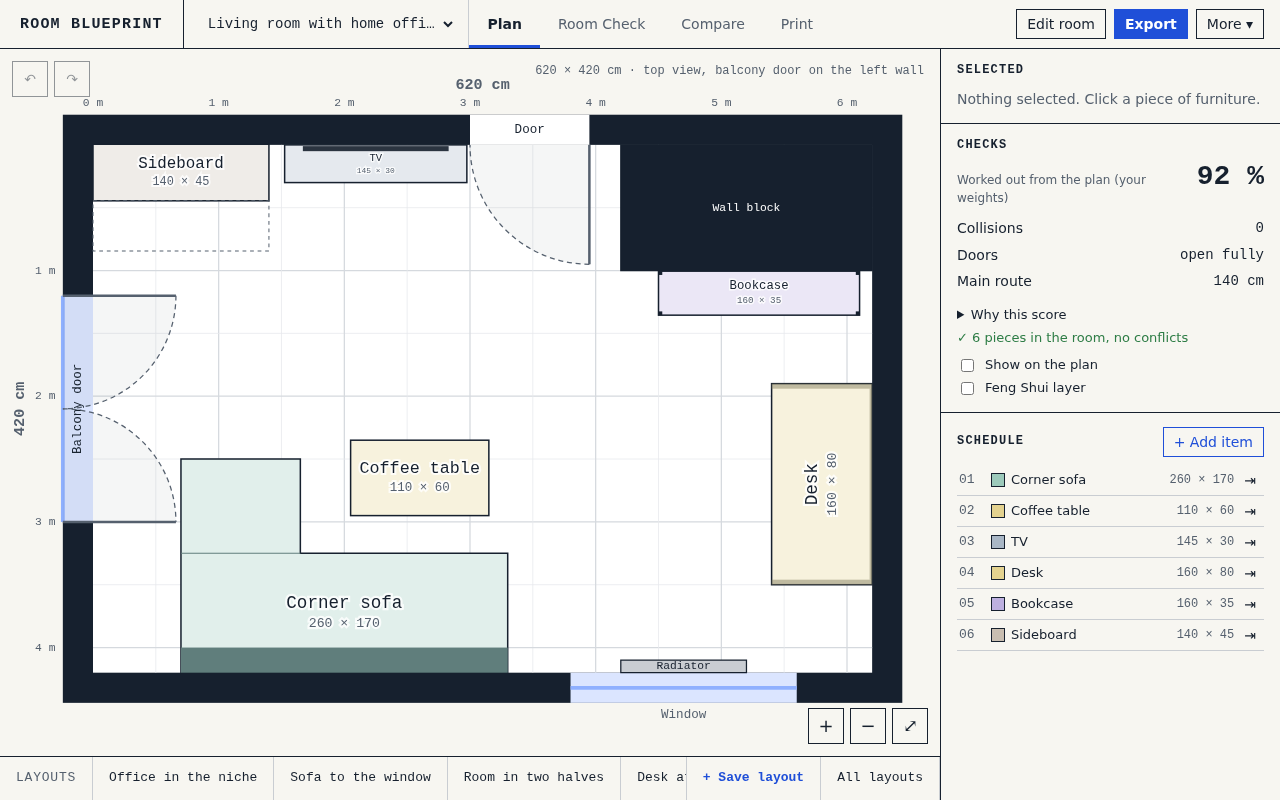
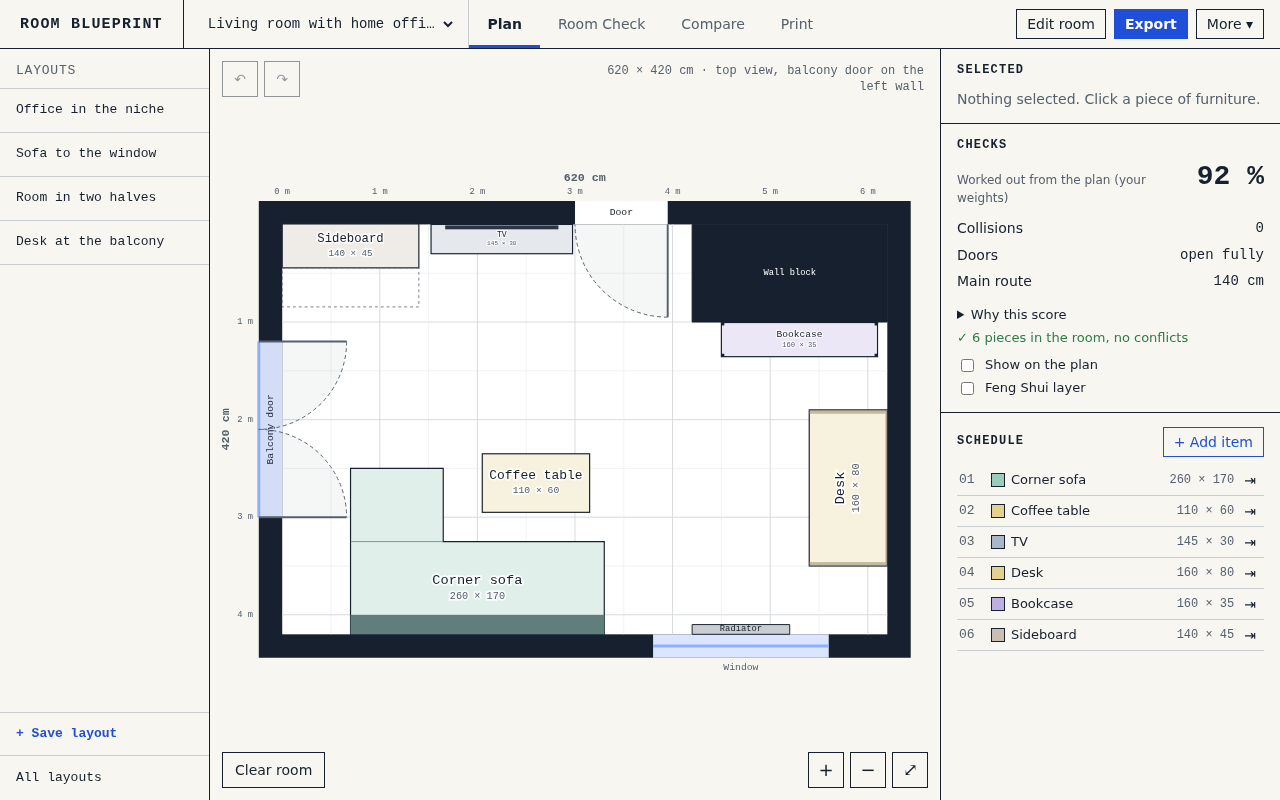
Layouts as a column left of the plan instead of the bottom bar
Claude-Session: https://claude.ai/code/session_01MsFzypCZdonm5r5cJatRb2

diff --git a/css/planner.css b/css/planner.css
@@ -16,14 +16,17 @@ main { flex: 1; display: flex; flex-direction: column; min-width: 0; }
 .canvas-foot button { background: var(--bg); min-height: 36px; padding: 0 12px; }
 #zoom button { font-size: 18px; padding: 0; }
 
-#layoutBar { display: flex; align-items: stretch; flex: none; border-top: 1.5px solid var(--text); font: 13px/1.3 var(--font-mono); min-height: 44px; }
-#layoutBar .bar-title { display: flex; align-items: center; padding: 0 16px; color: var(--muted); border-right: 1px solid var(--line);
-  text-transform: uppercase; letter-spacing: .06em; }
-#layoutChips { display: flex; flex: 1; min-width: 0; overflow-x: auto; }
-#layoutBar button { border: 0; border-right: 1px solid var(--line); padding: 8px 16px; white-space: nowrap; max-width: 26ch; overflow: hidden; text-overflow: ellipsis; flex: none; }
+/* Layouts: a column left of the plan */
+#layoutBar { display: flex; flex-direction: column; flex: none; width: 210px; border-right: 1.5px solid var(--text); font: 13px/1.3 var(--font-mono); min-height: 0; }
+#layoutBar .bar-title { padding: 14px 16px 8px; color: var(--muted); text-transform: uppercase; letter-spacing: .06em; border-bottom: 1px solid var(--line); }
+#layoutChips { display: flex; flex-direction: column; flex: 1; min-height: 0; overflow-y: auto; }
+#layoutBar button { border: 0; border-bottom: 1px solid var(--line); border-radius: 0; padding: 10px 16px; min-height: 44px; text-align: left;
+  white-space: normal; overflow-wrap: anywhere; display: -webkit-box; -webkit-line-clamp: 3; -webkit-box-orient: vertical; overflow: hidden; flex: none; }
 #layoutChips button[aria-pressed=true] { background: var(--text); color: var(--bg); font-weight: 600; }
-#layoutChips .empty { display: flex; align-items: center; padding: 0 16px; color: var(--muted); }
-#layoutBar #newLayout { color: var(--accent); font-weight: 600; border-left: 1px solid var(--line); }
+#layoutChips .empty { padding: 10px 16px; color: var(--muted); }
+#layoutBar #newLayout { color: var(--accent); font-weight: 600; border-top: 1px solid var(--line); }
+#layoutBar #allLayouts { border-bottom: 0; }
+@media (max-width: 1120px) { #layoutBar { width: 170px; } #layoutBar button, #layoutBar .bar-title { padding-left: 12px; padding-right: 12px; } }
 
 /* Only on a phone */
 #selBar, #bottomNav { display: none; }

diff --git a/index.html b/index.html
@@ -37,6 +37,12 @@
 <div id="damagedNotice" class="app-notice" role="alert" hidden></div>
 
 <div id="app">
+  <div id="layoutBar" class="plan-only" role="group" aria-label="Layouts">
+    <span class="bar-title">Layouts</span>
+    <div id="layoutChips"></div>
+    <button id="newLayout">+ Save layout</button>
+    <button id="allLayouts">All layouts</button>
+  </div>
   <main>
     <div class="canvas">
       <svg id="plan" xmlns="http://www.w3.org/2000/svg" role="img" aria-label="Floor plan"></svg>
@@ -61,12 +67,6 @@
         <button class="danger" id="sbRemove">Remove</button>
       </div>
     </section>
-    <div id="layoutBar" class="plan-only" role="group" aria-label="Layouts">
-      <span class="bar-title">Layouts</span>
-      <div id="layoutChips"></div>
-      <button id="newLayout">+ Save layout</button>
-      <button id="allLayouts">All layouts</button>
-    </div>
   </main>
 
   <aside id="inspector" aria-label="Inspector">
